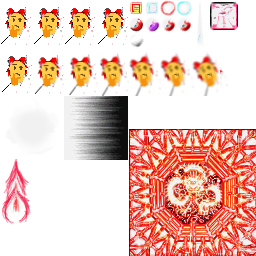
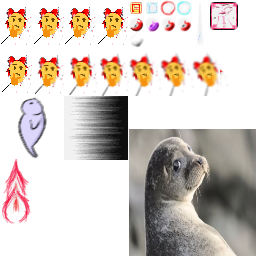
SEALS

Changed region(s): [[0.5, 0.5, 1.0, 1.0], [0.0625, 0.375, 0.1875, 0.625]]

diff --git a/Thonks/files.js b/Thonks/files.js
@@ -24,7 +24,16 @@
 	"th07/data/face/st08/face_08_00.png": 639644656,
 	"th07/data/face/st08/face_08_01.png": 639644656,
 	"th07/data/face/st08/face_08_02.png": 639644656,
-	"th07/data/player00/player00.png": 3144213124,
+	"th07/data/player00/player00.png": 2281138283,
 	"th07/data/player00/player01.png": 1370365692,
-	"th07/data/player00/player02.png": 3585328348
+	"th07/data/player00/player02.png": 3585328348,
+	"th07/data/stgenm/stg1enm.png": 711698327,
+	"th07/data/stgenm/stg2enm.png": 2454751288,
+	"th07/data/stgenm/stg3enm.png": 2211230155,
+	"th07/data/stgenm/stg4enm.png": 527871571,
+	"th07/data/stgenm/stg5enm.png": 3630844308,
+	"th07/data/stgenm/stg6enm.png": 3630844308,
+	"th07/data/stgenm/stg6enm2.png": 1697712409,
+	"th07/data/stgenm/stg7enm.png": 3387960063,
+	"th07/data/stgenm/stg8enm.png": 1849688374
 }
